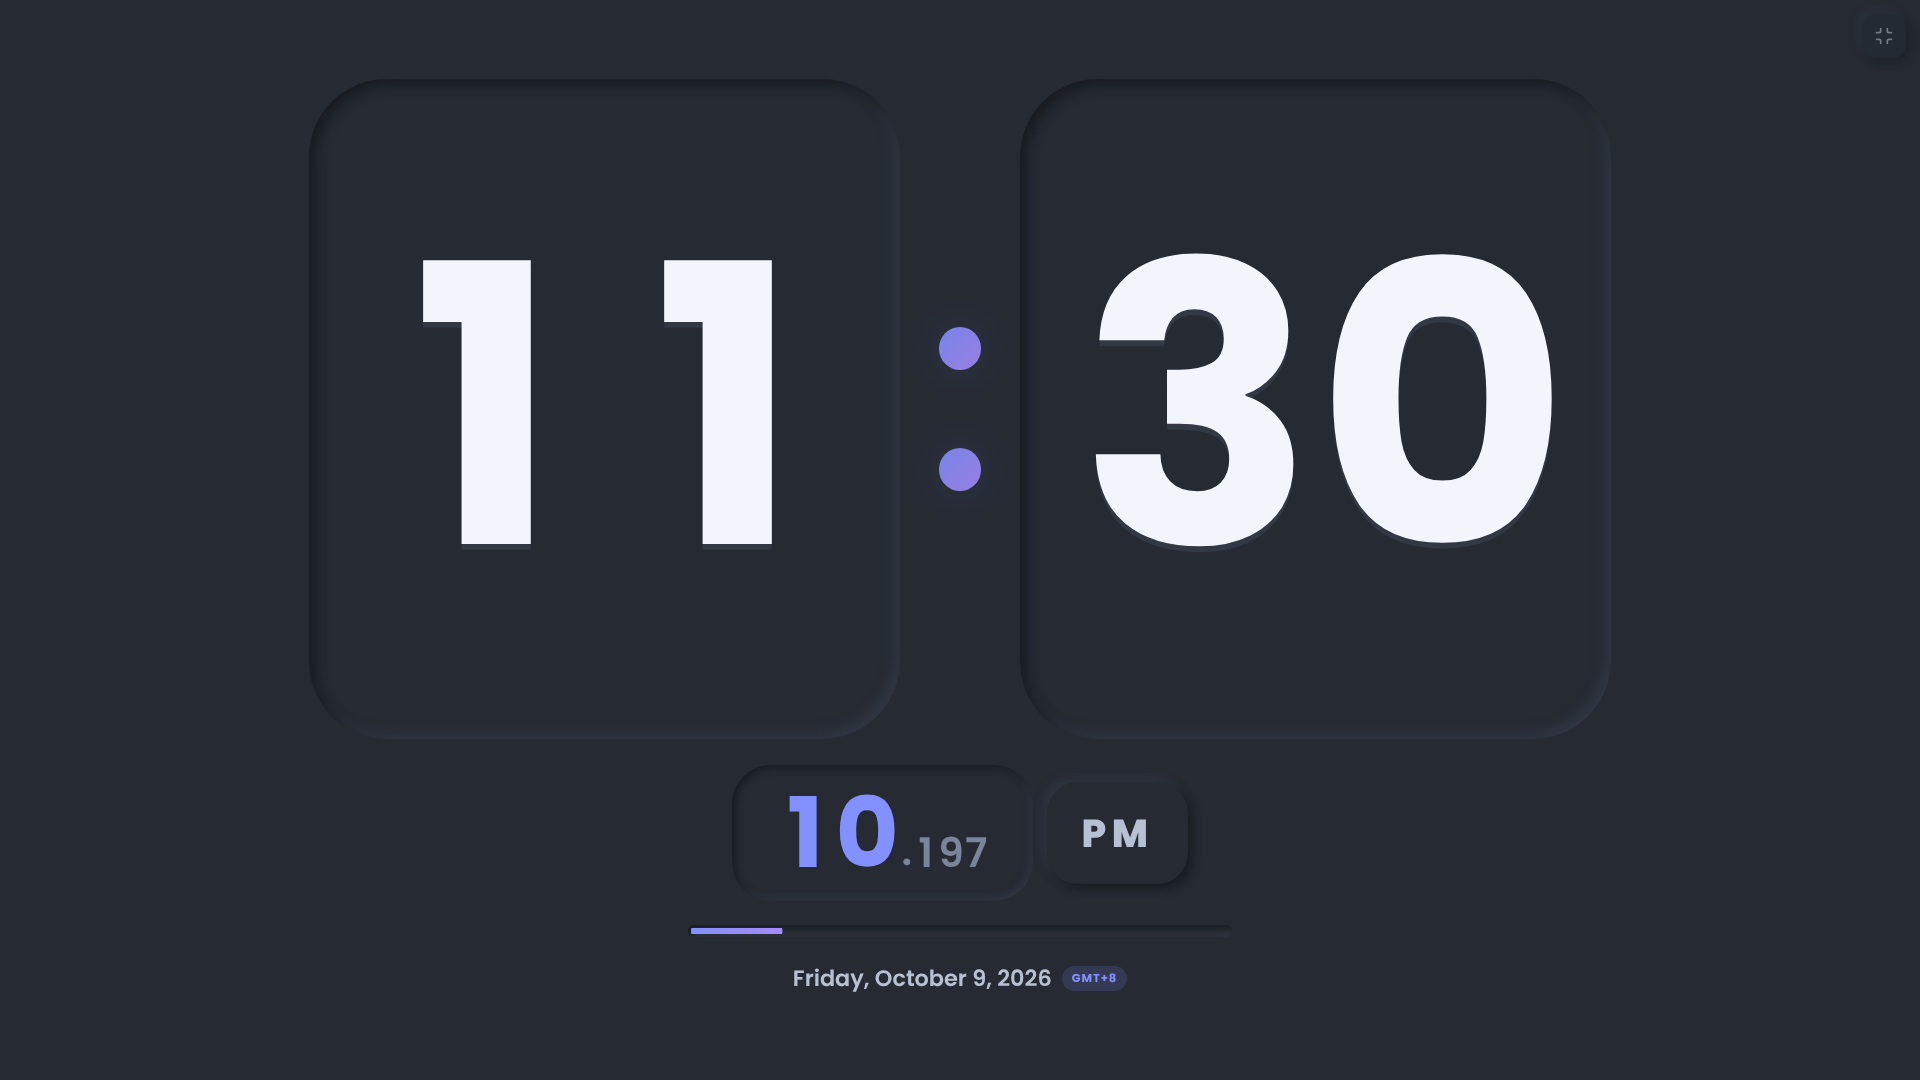
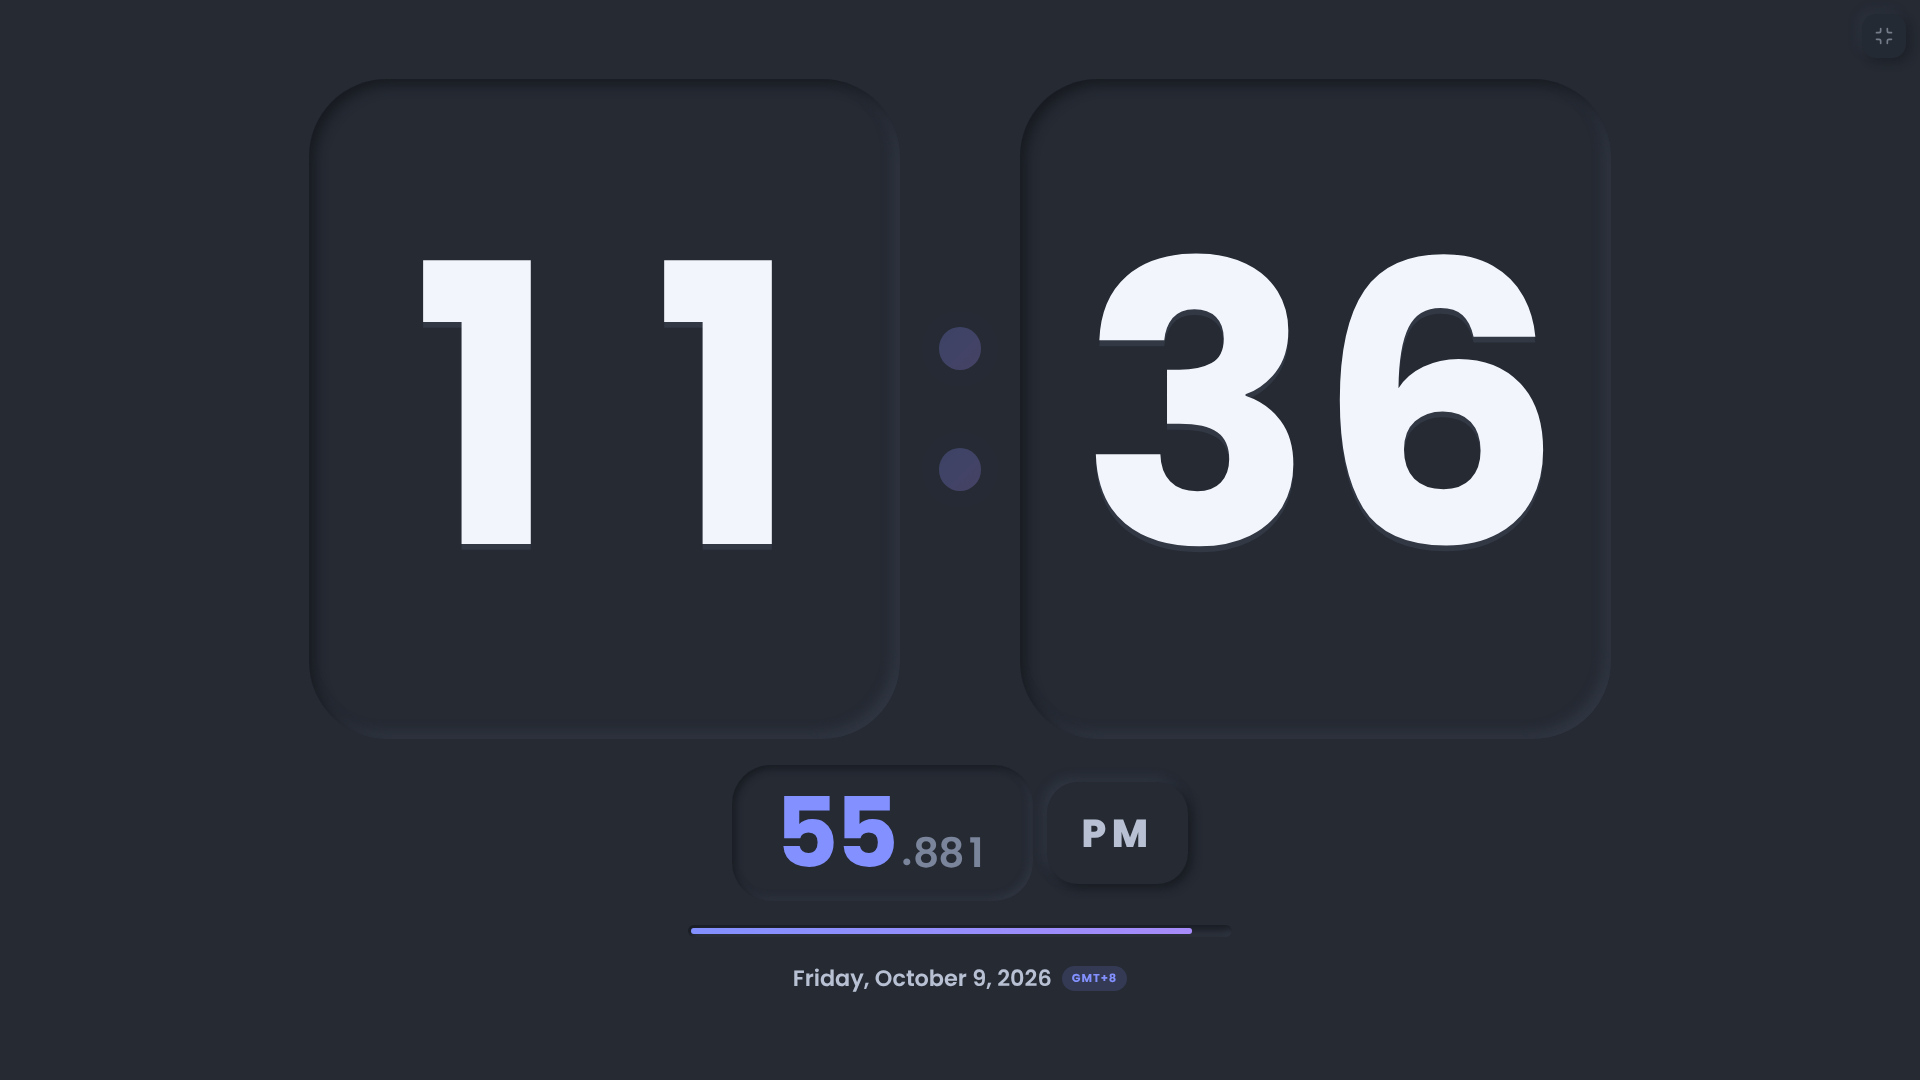
Round timer countdown up to whole seconds; add developer footer
A countdown started at 11:28:00 toward 12:00 AM read 31:59 instead of
32:00 because seconds were floored, and it disagreed with the setup
hint (which rounded minutes up). The timer now rounds up like a
standard timer: it shows the full duration at start and reaches 00:00
exactly when the alarm fires. The target-time hint uses the same
formatting so both always match. The millisecond readout under the
countdown is removed since it can't agree with rounded-up seconds.
The display is also clamped to the timer length in case the device
clock steps backwards.

Adds a small 'Developed by Rodger C. Pascual' footer linking to
LinkedIn (hidden in focus mode) and bumps the service worker cache.

Claude-Session: https://claude.ai/code/session_01WfvoktpLXkoSJQ23K4QYkQ

diff --git a/styles.css b/styles.css
@@ -579,7 +579,6 @@ select option { background: var(--bg); color: var(--text); }
 .timer-digits[data-len="7"] { font-size: 15.5cqi; }
 .timer-digits[data-len="8"] { font-size: 14cqi; }
 .timer-digits[data-len="9"] { font-size: 12.5cqi; }
-.timer-ms { font-size: 6cqi; font-weight: 600; color: var(--muted); }
 .timer-label {
     min-height: 1.3em;
     font-size: 4.2cqi;
@@ -640,6 +639,23 @@ select option { background: var(--bg); color: var(--text); }
     40%, 80% { transform: translateX(6px); }
 }
 
+/* ---------- Footer ---------- */
+.footer {
+    text-align: center;
+    font-size: .75rem;
+    font-weight: 500;
+    letter-spacing: .02em;
+    color: var(--muted);
+}
+.footer a {
+    font-weight: 700;
+    color: var(--accent);
+    text-decoration: none;
+    border-bottom: 1px solid transparent;
+    transition: border-color .2s ease;
+}
+.footer a:hover { border-bottom-color: currentColor; }
+
 /* ---------- Focus mode (big desk clock) ---------- */
 .exit-focus {
     position: fixed;
@@ -653,7 +669,8 @@ select option { background: var(--bg); color: var(--text); }
 
 body.focus .exit-focus { display: grid; }
 body.focus .chrome,
-body.focus .card-head { display: none; }
+body.focus .card-head,
+body.focus .footer { display: none; }
 body.focus .app { max-width: none; }
 body.focus main > .card {
     max-height: none;
@@ -673,7 +690,7 @@ body.focus .ring { width: min(84cqi, 62vh); }
 
 /* ---------- Landscape phones ---------- */
 @media (orientation: landscape) and (max-height: 560px) {
-    .app { max-width: 64rem; gap: 12px; padding-top: calc(env(safe-area-inset-top) + 10px); padding-bottom: calc(env(safe-area-inset-bottom) + 12px); }
+    .app { max-width: 64rem; gap: 10px; padding-top: calc(env(safe-area-inset-top) + 10px); padding-bottom: calc(env(safe-area-inset-bottom) + 12px); }
     .chrome { flex-direction: row; align-items: center; gap: 16px; }
     .topbar { display: contents; }
     .brand { margin-right: auto; }
@@ -689,7 +706,7 @@ body.focus .ring { width: min(84cqi, 62vh); }
 
     /* Clock: digits left, details right */
     .clock-body { flex-direction: row; gap: 4cqi; }
-    .clock-main { font-size: min(18cqi, 36vh); }
+    .clock-main { font-size: min(18cqi, 29vh); }
     .clock-meta { width: auto; gap: 14px; }
     .sec-track { width: 12rem; }
     .clock-date { flex-direction: column; gap: 6px; font-size: .85rem; }
@@ -700,13 +717,13 @@ body.focus .ring { width: min(84cqi, 62vh); }
     #view-timer .seg button { padding: 7px 0; }
     .timer-body { grid-column: 1; grid-row: 2; height: 100%; gap: 12px; }
     .setup { gap: 14px; }
-    .dur { font-size: min(10cqi, 12.5vh); }
+    .dur { font-size: min(10cqi, 11vh); }
     .dur-field { gap: 6px; }
     .presets { max-width: none; gap: 8px; }
     .preset { padding: 6px 10px; }
     .target { max-width: 26rem; }
     .field input, .field select { height: 42px; }
-    .ring { width: min(50cqi, 56vh); }
+    .ring { width: min(50cqi, 48vh); }
     .controls { grid-column: 2; grid-row: 2; flex-direction: column; gap: 14px; min-height: 0; }
     .round { width: 50px; height: 50px; }
     .round.big { width: 64px; height: 64px; }

diff --git a/app.js b/app.js
@@ -349,7 +349,6 @@
     const ring = $('timer-run');
     const ringBar = $('ring-bar');
     const timerDigits = $('timer-digits');
-    const timerMs = $('timer-ms');
     const timerLabel = $('timer-label');
     const btnStart = $('btn-start');
     const btnPause = $('btn-pause');
@@ -440,16 +439,14 @@
         updateTargetHint(Date.now());
     });
 
-    function humanDuration(ms) {
-        const totalMin = Math.ceil(ms / 60000);
-        const d = Math.floor(totalMin / 1440);
-        const h = Math.floor((totalMin % 1440) / 60);
-        const m = totalMin % 60;
-        const out = [];
-        if (d) out.push(`${d}d`);
-        if (h) out.push(`${h}h`);
-        if (m || !out.length) out.push(`${m}m`);
-        return out.join(' ');
+    // Countdown text, rounded *up* to the whole second like a real timer:
+    // it reads 05:00 the moment it starts and 00:00 exactly when it rings.
+    function formatCountdown(ms) {
+        const totalSec = Math.max(0, Math.ceil(ms / 1000));
+        const h = Math.floor(totalSec / 3600);
+        const m = Math.floor((totalSec % 3600) / 60);
+        const sec = totalSec % 60;
+        return h > 0 ? `${h}:${pad(m)}:${pad(sec)}` : `${pad(m)}:${pad(sec)}`;
     }
 
     function updateTargetHint(now) {
@@ -461,7 +458,7 @@
             targetHint.textContent = 'That time has already passed';
             targetHint.classList.add('bad');
         } else {
-            targetHint.textContent = `Counts down ${humanDuration(target - now)}`;
+            targetHint.textContent = `Countdown: ${formatCountdown(target - now)}`;
             targetHint.classList.remove('bad');
         }
     }
@@ -602,18 +599,13 @@
 
     function renderTimerDisplay(now) {
         if (timer.state === 'idle') return;
-        const rem = timer.state === 'running' ? Math.max(0, timer.endAt - now)
+        // Clamp to the total so a clock that steps backwards can't show more than the timer length.
+        const rem = timer.state === 'running' ? Math.min(timer.total, Math.max(0, timer.endAt - now))
             : timer.state === 'paused' ? timer.remaining : 0;
 
-        const totalSec = Math.floor(rem / 1000);
-        const h = Math.floor(totalSec / 3600);
-        const m = Math.floor((totalSec % 3600) / 60);
-        const sec = totalSec % 60;
-        const str = h > 0 ? `${h}:${pad(m)}:${pad(sec)}` : `${pad(m)}:${pad(sec)}`;
-
+        const str = formatCountdown(rem);
         renderDigits(timerDigits, str);
         timerDigits.dataset.len = str.length;
-        renderDigits(timerMs, '.' + pad(rem % 1000, 3));
 
         const progress = timer.total > 0 ? Math.min(1, rem / timer.total) : 0;
         ringBar.style.strokeDashoffset = String(RING_C * (1 - progress));

diff --git a/index.html b/index.html
@@ -185,7 +185,6 @@
                         </svg>
                         <div class="ring-inner neu-in" id="ring-inner">
                             <div id="timer-digits" class="digits timer-digits" role="timer">00:00</div>
-                            <div id="timer-ms" class="digits timer-ms">.000</div>
                             <div id="timer-label" class="timer-label">&nbsp;</div>
                         </div>
                     </div>
@@ -206,6 +205,10 @@
                 </div>
             </section>
         </main>
+
+        <footer class="footer">
+            Developed by <a href="https://www.linkedin.com/in/pascualrc?utm_source=share_via&amp;utm_content=profile&amp;utm_medium=member_android" target="_blank" rel="noopener noreferrer">Rodger C. Pascual</a>
+        </footer>
     </div>
 
     <button id="btn-exit-focus" class="exit-focus icon-btn neu-out-sm" type="button" aria-label="Exit focus mode" title="Exit focus (Esc)">

diff --git a/sw.js b/sw.js
@@ -1,6 +1,6 @@
 // Clucky service worker — offline support.
 // Bump VERSION whenever you change any app file so installed apps pick up the update.
-const VERSION = 'clucky-v1';
+const VERSION = 'clucky-v2';
 const FONT_CACHE = 'clucky-fonts';
 
 const SHELL = [
